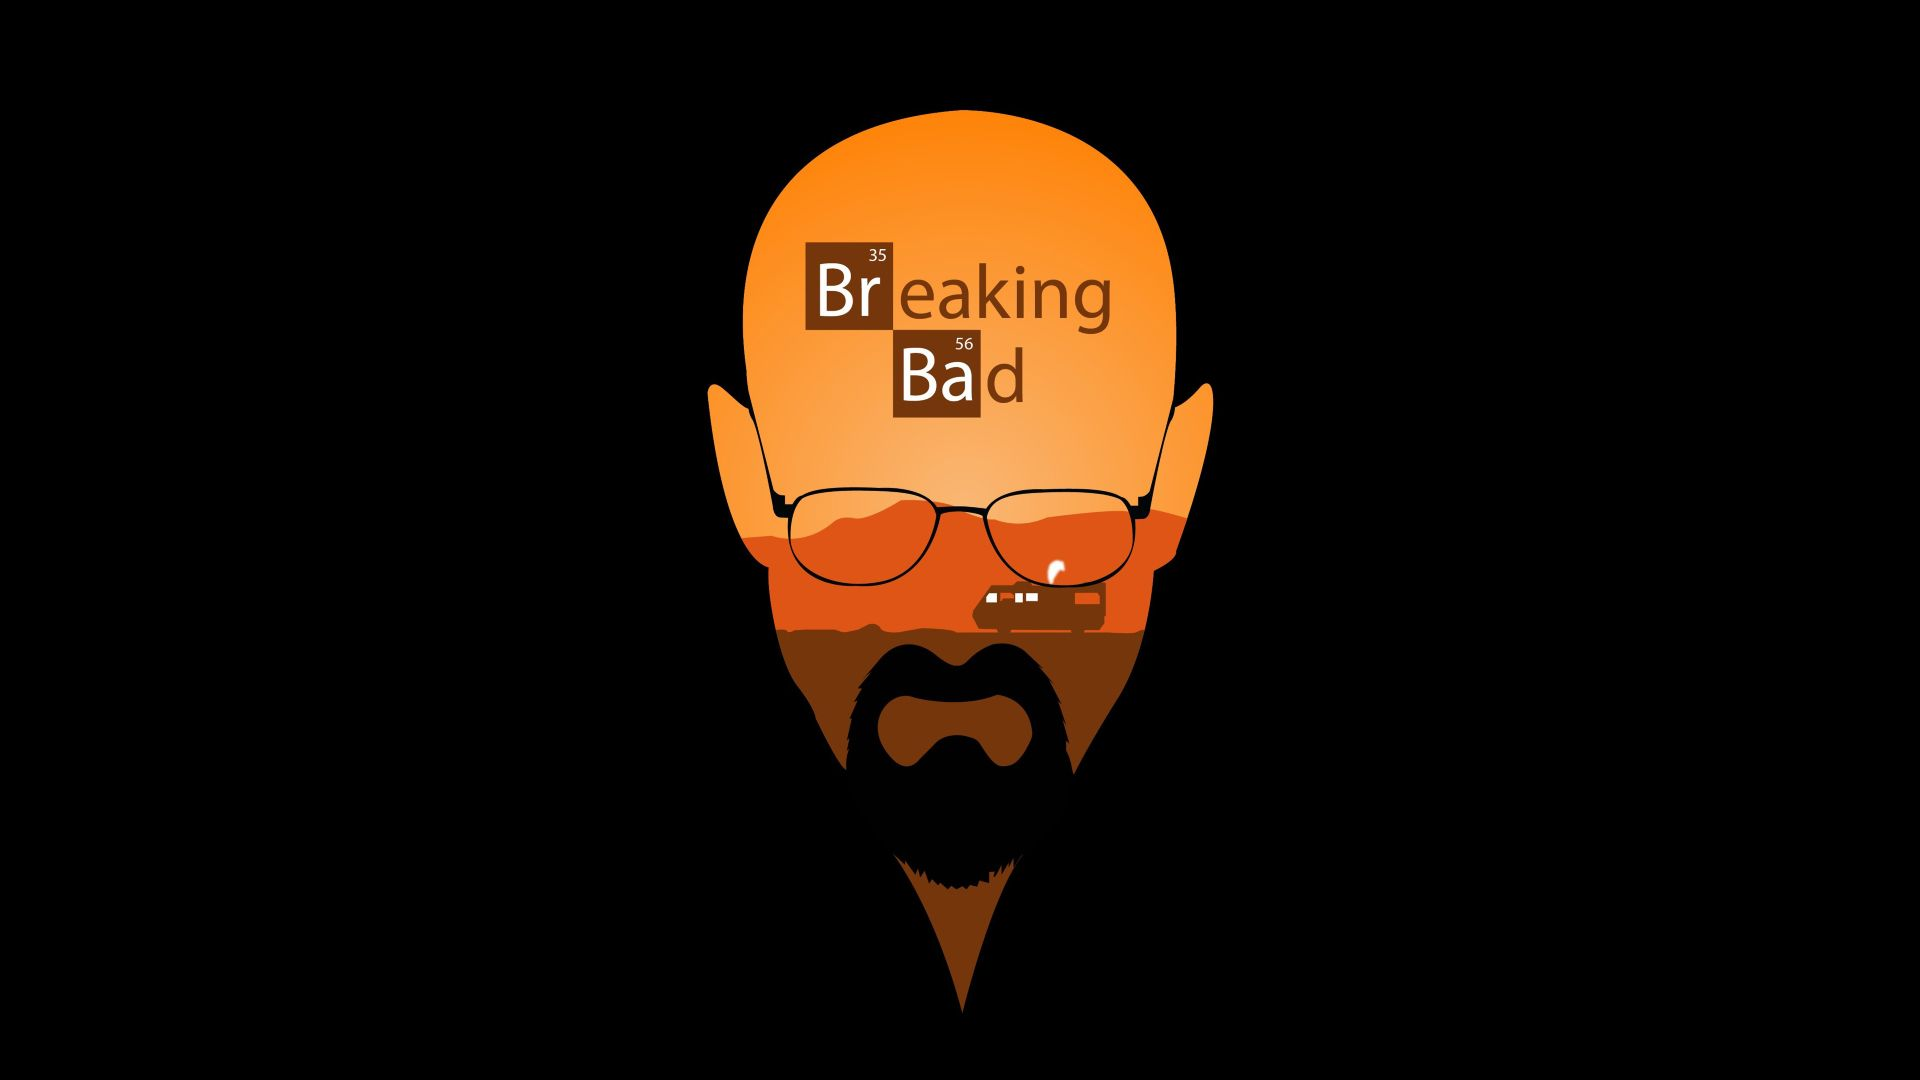
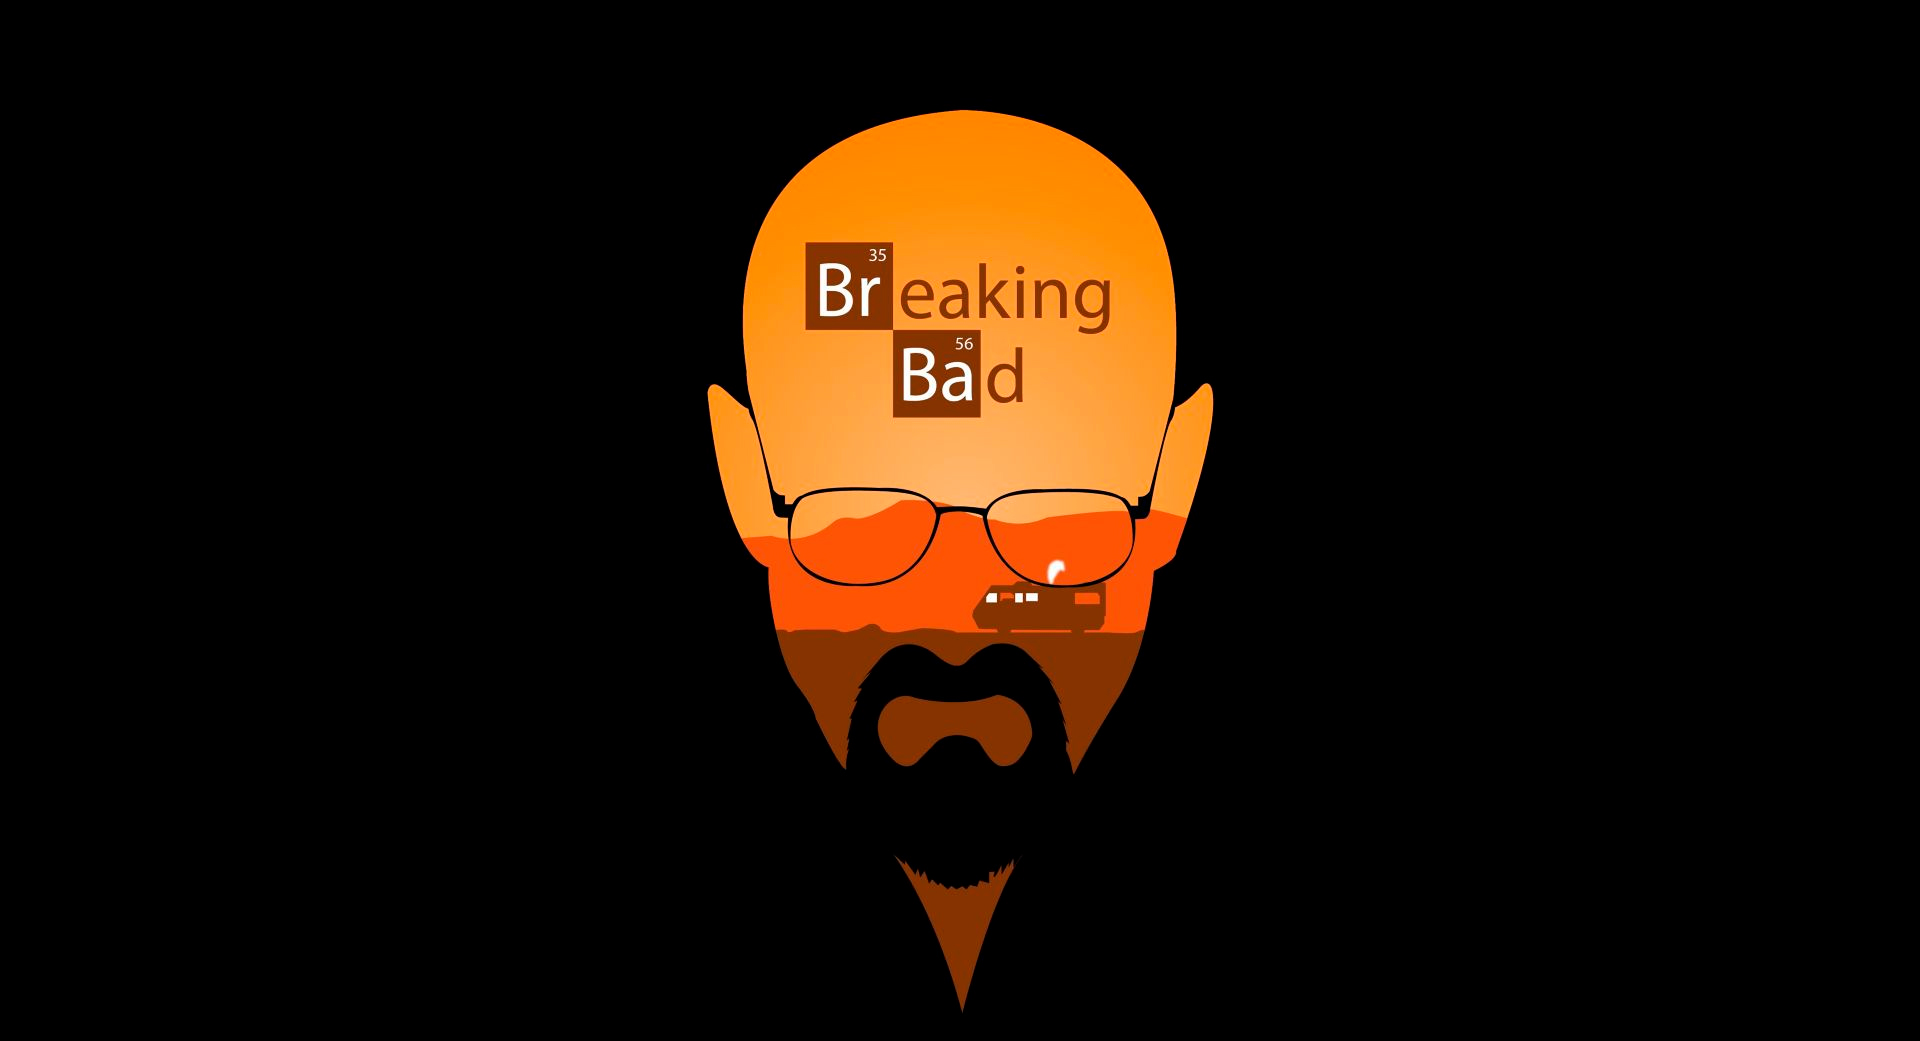
details

Changed region(s): [[0.3438, 0.123, 0.6562, 0.7378], [0.4688, 0.7992, 0.5312, 0.9529], [0.4375, 0.0922, 0.5625, 0.123]]

diff --git a/src/App.vue b/src/App.vue
@@ -2,14 +2,11 @@
   <div id="app">
     <div class="home">
       <div class="hero">
-        <img src="@/assets/images/bg-5.jpg" class="bg" alt="">
+        <img src="@/assets/images/bg-4.jpg" class="bg" alt="">
       </div>
       <div class="container">
         <div class="search">
-          <input type="text" placeholder="Search" class="search-field" v-model="search">
-          <button class="search-btn">
-            <font-awesome-icon icon="search" />
-          </button>
+          <input type="text" placeholder="Search characters " class="search-field" v-model="search">
         </div>
       </div>
       <ListCharacter
@@ -54,11 +51,12 @@ export default {
       if (this.search == '' || this.search == ' '){
         return this.chara
       } else {
-        let l = this.chara.filter(people => {
+        let filtered = this.chara.filter(people => {
           let name = people.name.toLowerCase()
           return name.indexOf(this.search.toLowerCase()) !== -1
         } )
-        return l
+        
+        return filtered
       }
     }
   },

diff --git a/src/components/ListCharacter.vue b/src/components/ListCharacter.vue
@@ -24,6 +24,10 @@
         </div>
       </div>
     </div>
+    <div class="msg-result-fail" v-if="paginatedData.length <= 0">
+      <strong class="msg-result-fail-title">Not finded this is character {{search}} </strong>
+      <span class="msg-result-fail-des">Repeat this search...</span>
+    </div>
     <div class="pagination" v-if="data.length > 6 || currentPage > 1">
       <div class="pagination-item">
         <button class="pagination-button" @click="onClickFirstPage" :disabled="isInFirstPage">

diff --git a/README.md b/README.md
@@ -1,4 +1,10 @@
 # breaking-bad
+```
+git clone https://github.com/wensch/breaking-bad.git
+```
+```
+cd breaking-bad
+```
 
 ## Project setup
 ```
